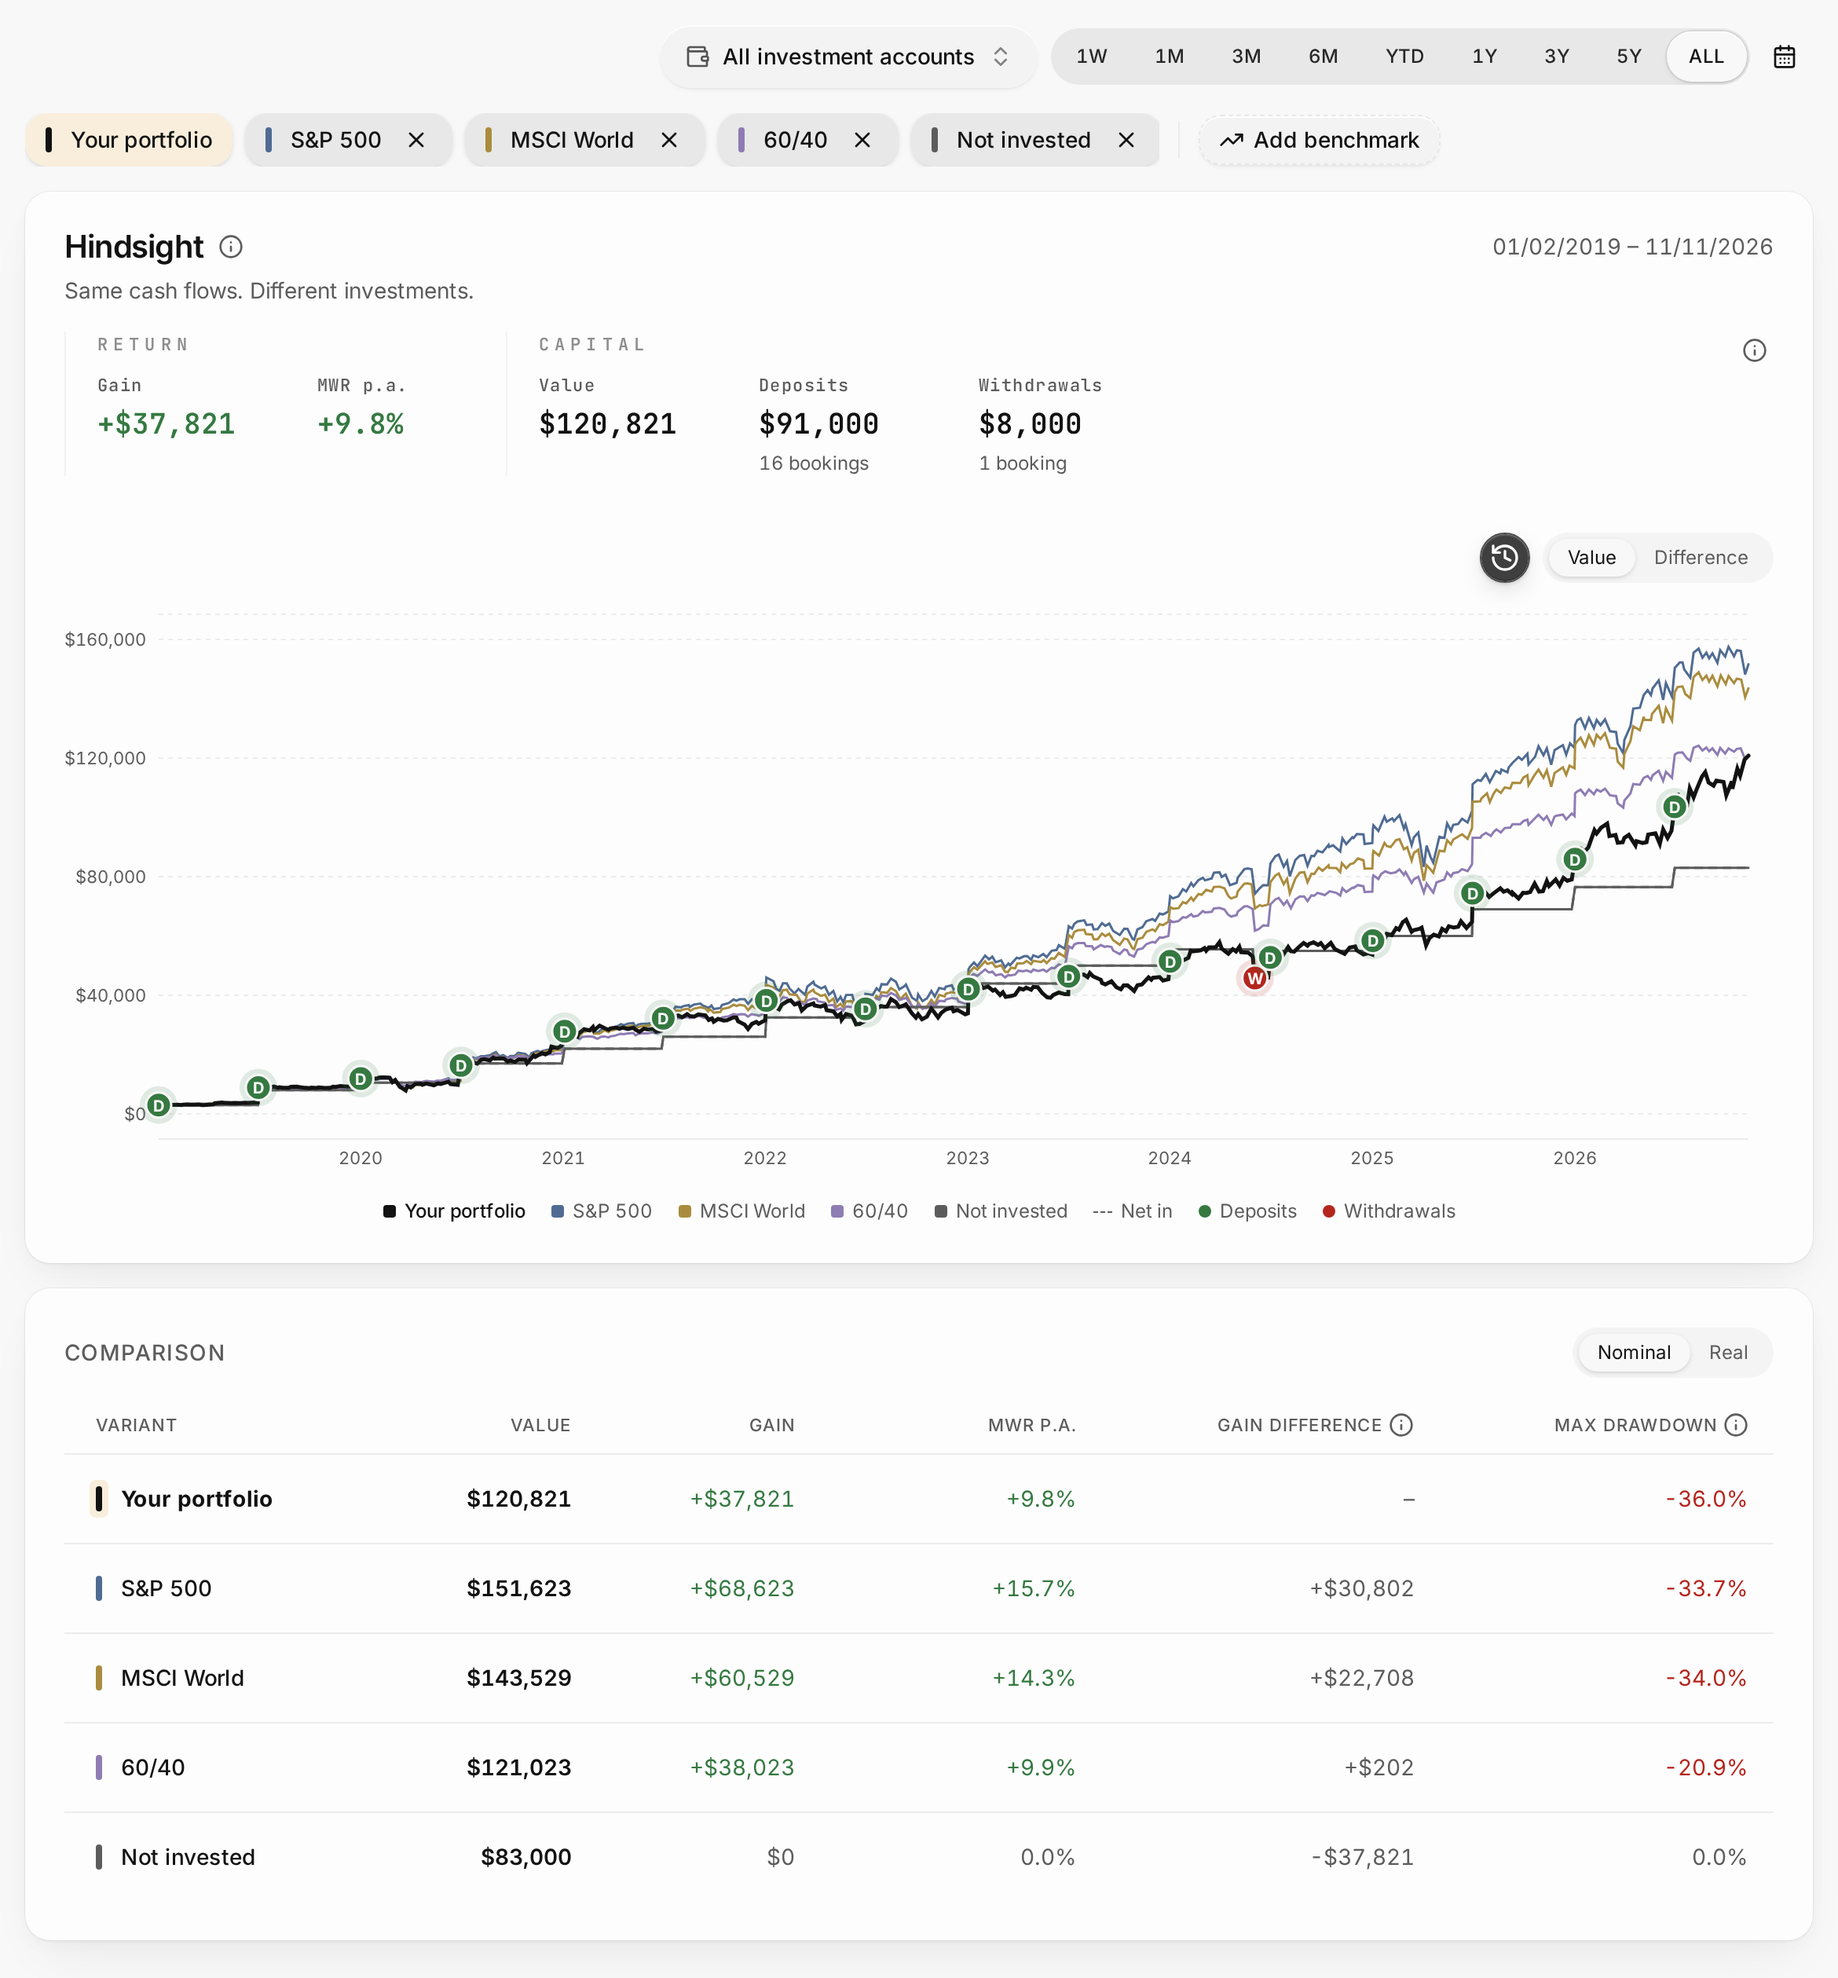
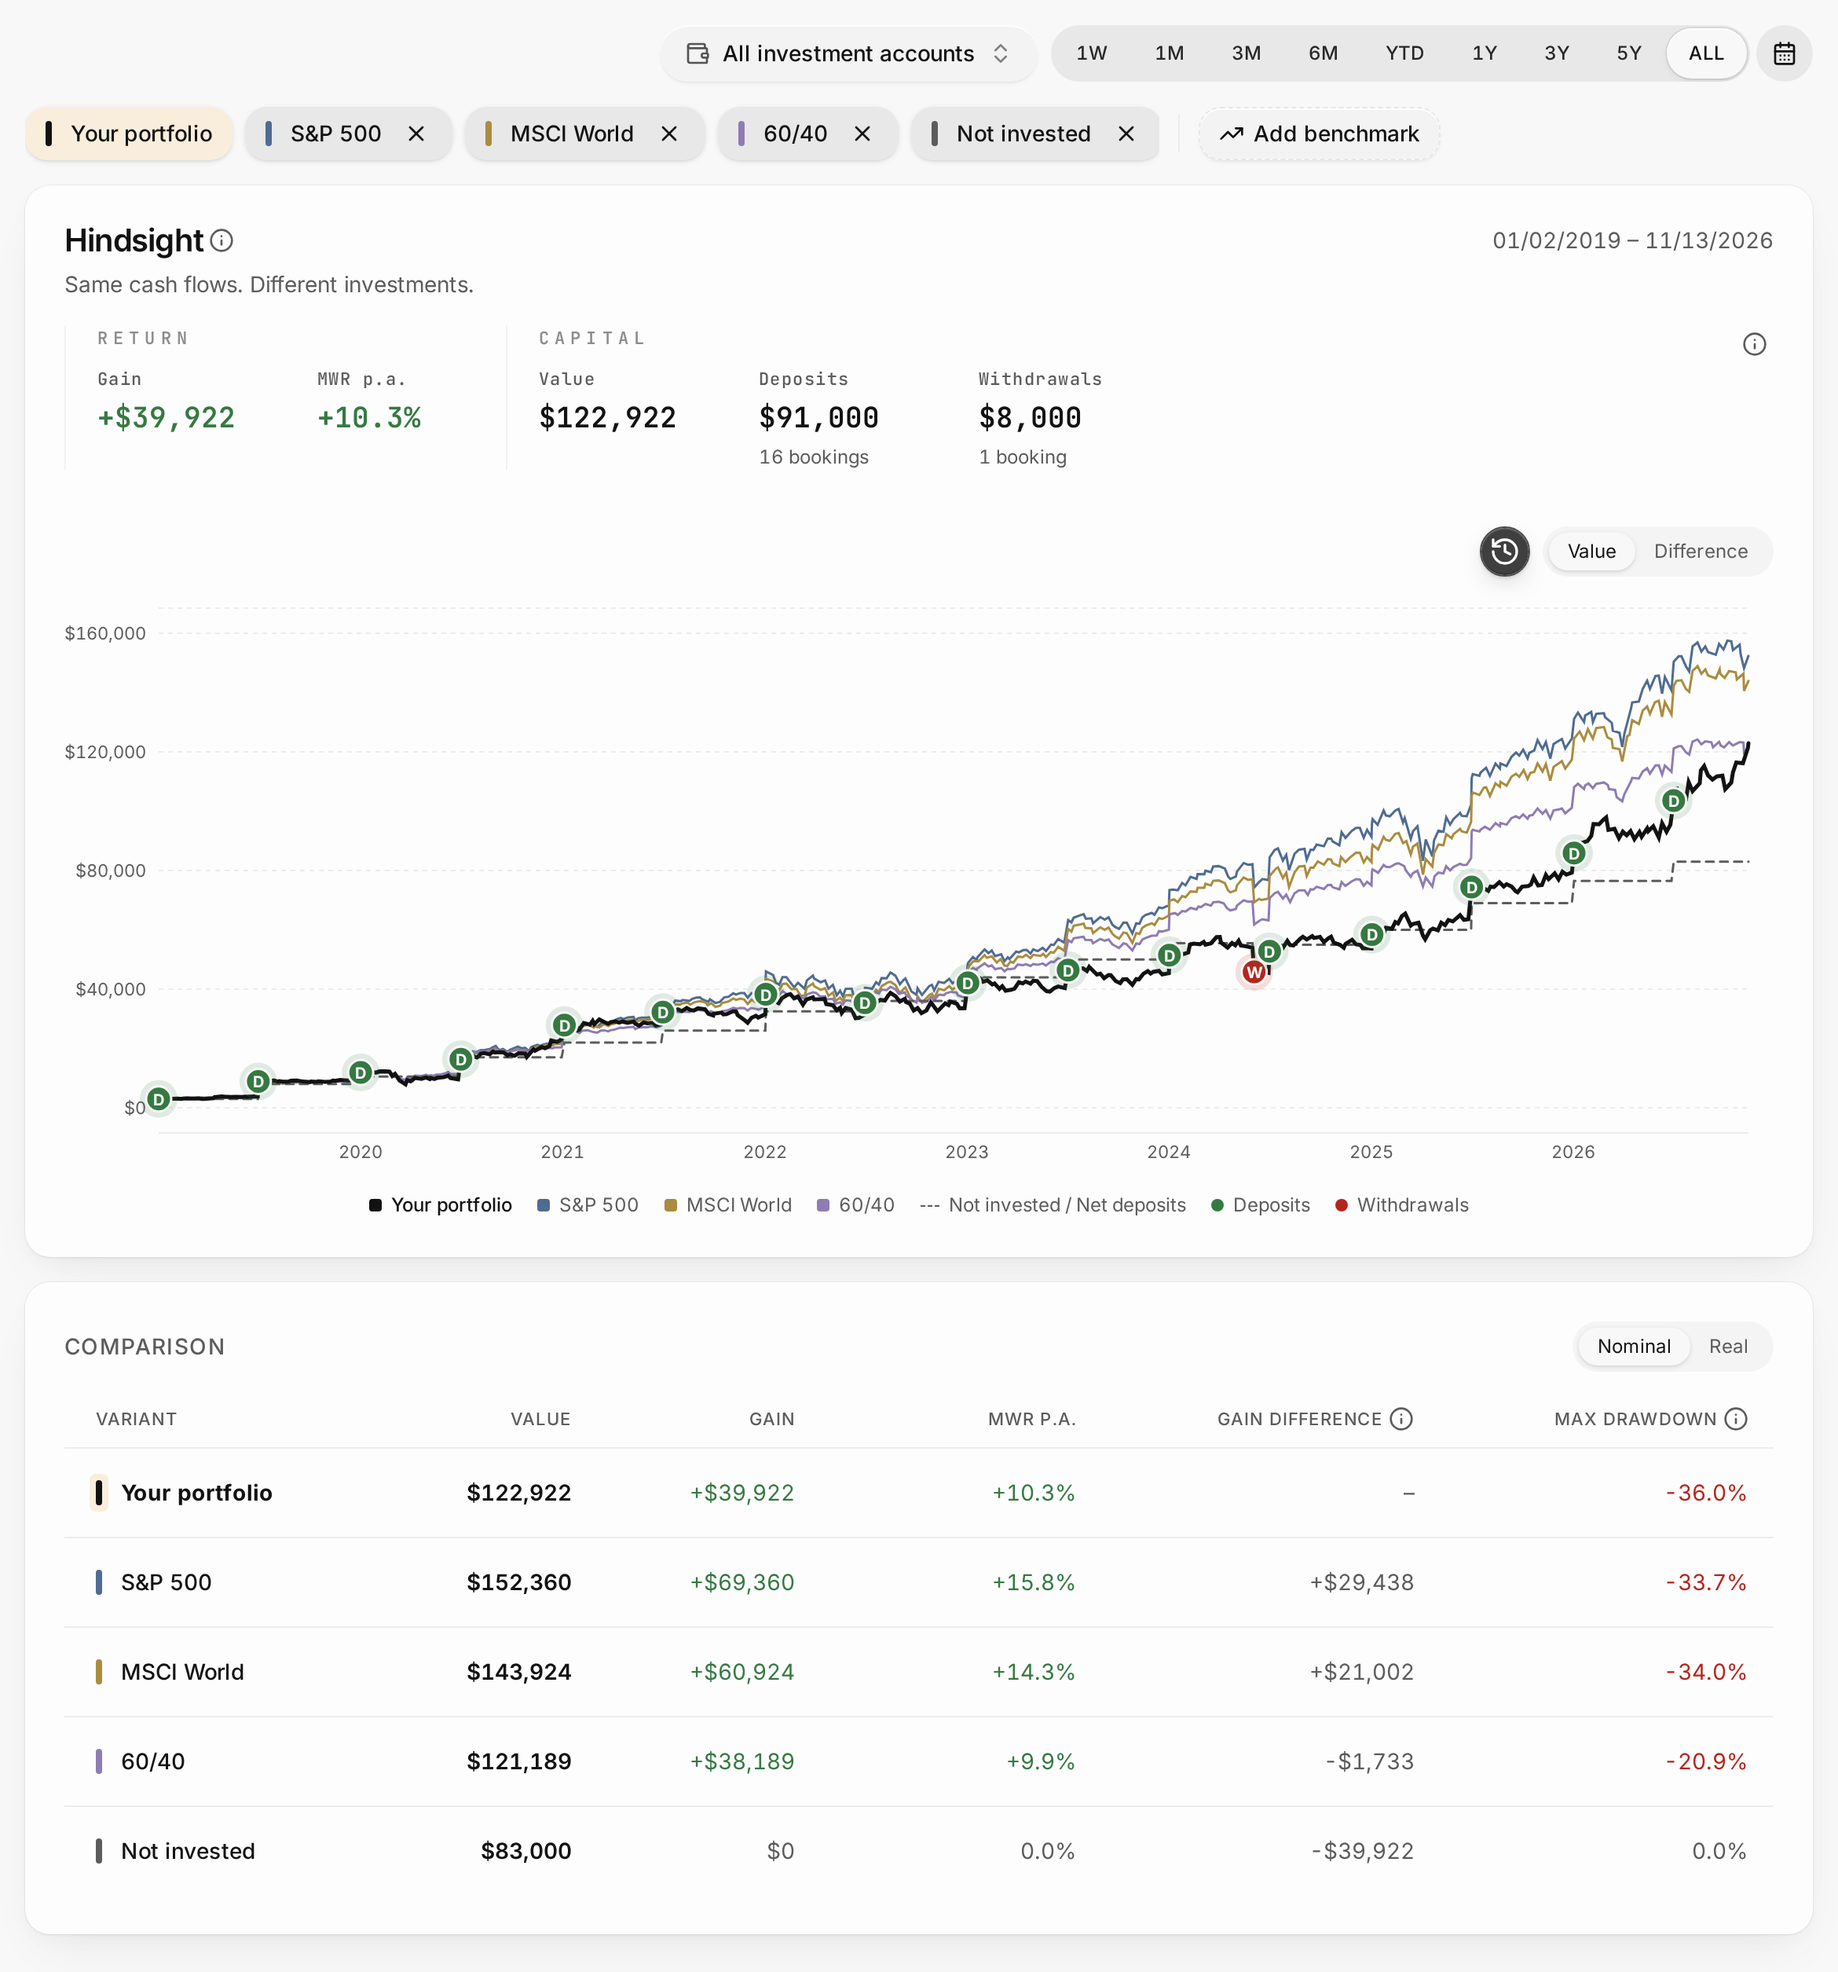
Keep the host's badge gap on desktop and update the screenshots
The 44px touch target needs a 12px gap before a benchmark's remove button, but on fine pointers the extra
4px per badge pushed the fifth badge out of the host's width-capped carousel at 1240px. The screenshots
also replace the old "Net in" legend.

diff --git a/src/ui/compact.css b/src/ui/compact.css
@@ -65,6 +65,9 @@
 
 .hindsight-badge-remove {
   --hindsight-icon-size: 1.25rem;
+  /* The host's gap. The enlarged touch target below needs more, or it would overlap the badge label; on desktop
+     that extra width would push the last badge out of the host's width-capped carousel. */
+  margin-inline-start: 0.5rem;
 }
 
 .hindsight-unclipped,
@@ -84,6 +87,11 @@
 @media (max-width: 1023px), (pointer: coarse) {
   .hindsight-compact-icon {
     --hindsight-target-half-size: 22px;
+  }
+
+  /* Half the 44px target minus half the 20px button: the target ends at the label. */
+  .hindsight-badge-remove {
+    margin-inline-start: 0.75rem;
   }
 
   /* Sized and centred like .hindsight-compact-icon: insets derived from the button size would lose its border,

diff --git a/src/ui/Badges.tsx b/src/ui/Badges.tsx
@@ -66,7 +66,7 @@ function ItemBadge({
           variant="ghost"
           size="icon-xs"
           className={cn(
-            'hindsight-badge-remove relative ms-3 transition-all duration-150',
+            'hindsight-badge-remove relative transition-all duration-150',
             COMPACT_ICON_BUTTON,
             'hover:bg-destructive-subtle hover:text-destructive-subtle-foreground hover:scale-110',
             'focus-visible:ring-destructive/50 focus-visible:ring-2',

diff --git a/CHANGELOG.md b/CHANGELOG.md
@@ -1,5 +1,9 @@
 # Changelog
 
+## Unreleased
+
+- Restore the host's gap before a benchmark's remove button on desktop, so five benchmarks fit the badge row again at common widths; touch screens keep the wider gap.
+
 ## 0.4.3 (2026-11-13)
 
 - Align account, calendar and add-benchmark controls with their rows, give the calendar a button background, and tighten the heading's info-button spacing.
